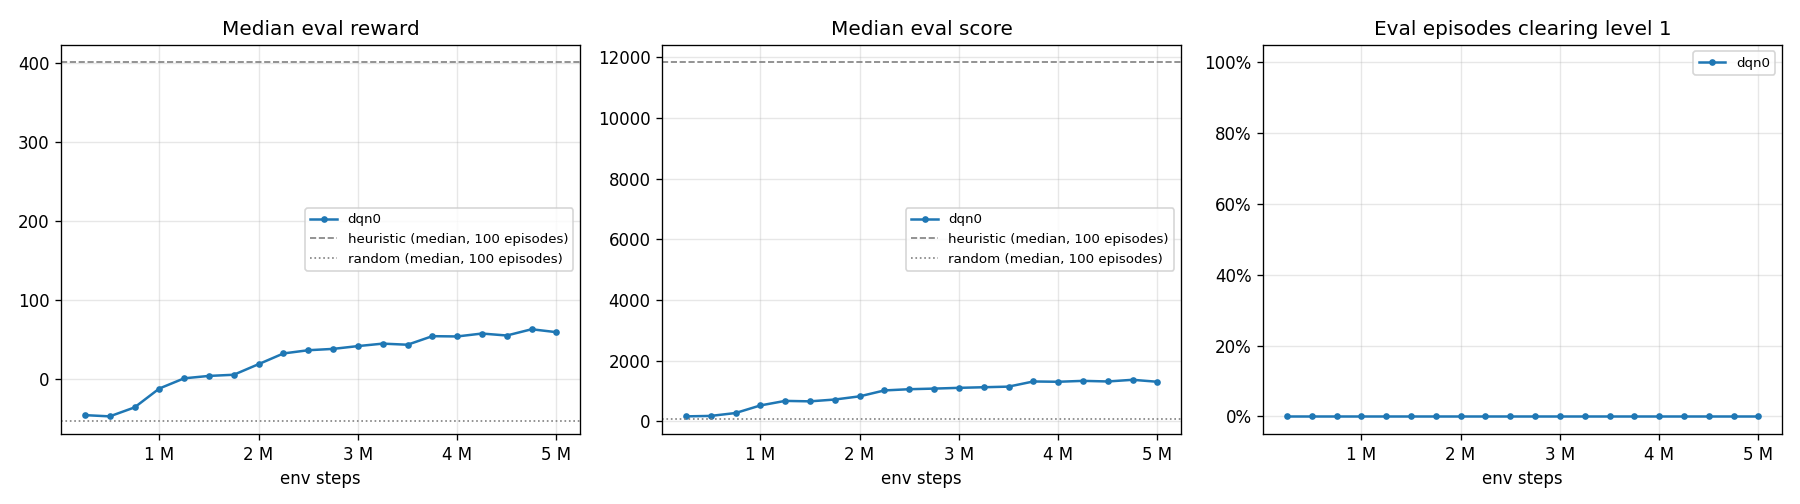
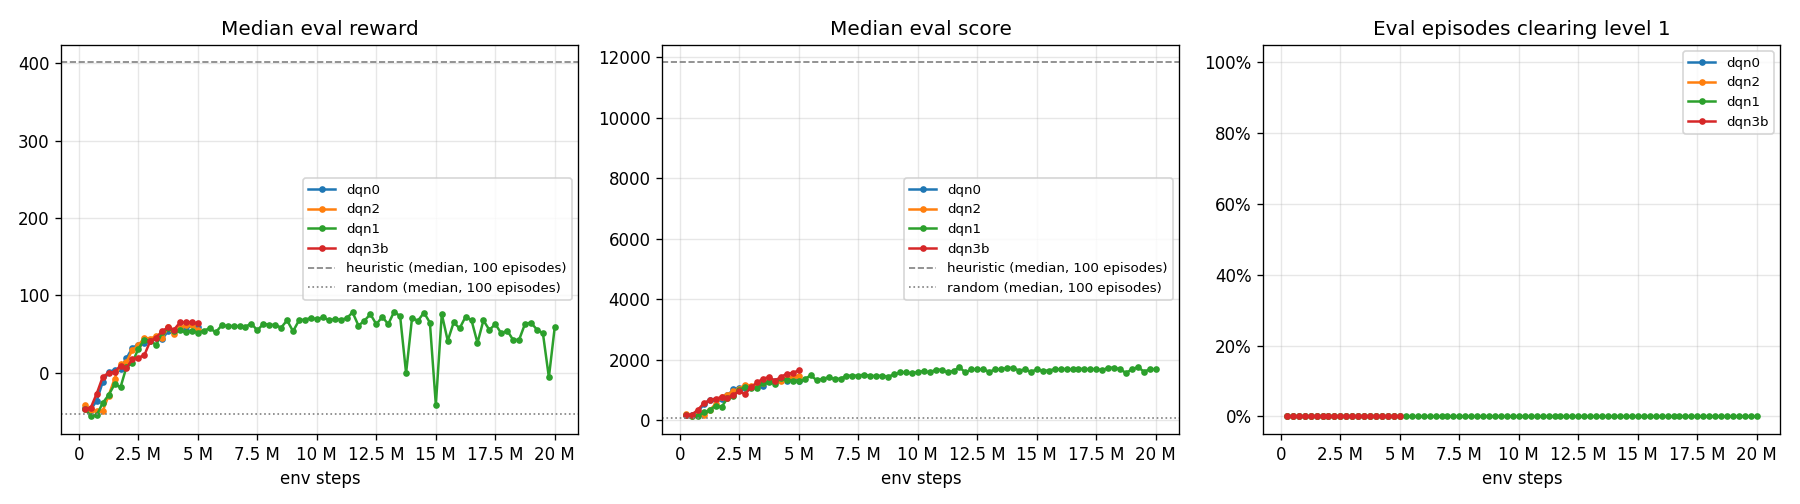
night report: dqn1 (20M) and dqn3b (offset shaping)
Neither clears level 1. dqn1/best.pt (13.25M) has the best median (70.1
reward, 1580 score) but gets stuck until the step limit in 15% of games,
more so later in training; dqn3b's shaping does not reduce the time spent
without eating (59% of the game in 30+ step stretches vs 54% for dqn0).
docs/results.md gets the supervisor's 500k-step evaluations and the final
100-game evaluations of dqn1 and dqn3b; docs/eval.png all runs.

diff --git a/docs/night_report.md b/docs/night_report.md
@@ -1,0 +1,283 @@
+# Night report, 2026-10-06 (01:10-03:20)
+
+Runs: **dqn1** (dqn0's setup, 20M steps, epsilon 1.0 -> 0.05 over 3M; started the
+evening before) and **dqn3b** (shaping Phi = 0.1 * (86 - d), Phi(terminal) = 0,
+4 actions, 5M steps; started 01:20 after dqn3 with the old potential was
+stopped). Both finished, no crashes. Supervisor (`scripts/supervisor.py`)
+watched both from 01:34 and exited at 03:18. Plot of all evals: `docs/eval.png`.
+
+## Summary
+
+- Neither run cleared level 1 in any evaluation game. Best medians:
+  dqn1/best.pt 70.1 reward, 1580 score, 152 food items per game (dqn0: 61.8,
+  1360, 128).
+- **The shaping did not fix standing still.** dqn3b eats the same amount of
+  food as dqn0 (127 vs 128) and spends more of the game without eating:
+  median 212 steps after its last food vs 69; 59% vs 54% of the game in
+  stretches of 30+ steps without food.
+- **dqn1 gets worse at this with more training.** From ~9M steps on, more
+  and more evaluation games run to the 10000-step limit without the game
+  ending: 0/20 at 9M, 6/20 at 13M (train.py's evals), 45-50% of supervisor
+  eval games at 13M, 15M and 19.5M. Its median eval reward on seeds 0..19
+  fell to -1.4 (13M) and -0.4 (19.5M) because the step penalty piles up.
+  Loss stayed flat (0.37-0.40), mean Q kept rising (8.7 at 7M -> 18 at 20M).
+- best.pt is chosen by median eval reward, which ignores stuck games while
+  fewer than half get stuck: dqn1/best.pt (13.25M) gets stuck in 15/100
+  games, so its mean reward (49.1) is below dqn0's (61.9).
+- Speed: both runs dropped below 1.5k steps/s at times (details below). No
+  new runs were started.
+
+## Final evaluations (100 games, seeds 0..99, no shaping)
+
+"After last food": median steps from the last eaten dot/energizer to the
+end of the game. "In 30+ gaps": mean share of the game spent in stretches
+of 30 or more steps without eating (the tail included). "Stuck": games
+that hit the 10000-step limit.
+
+| checkpoint | mean reward | median reward | median score | max score | level 1 cleared | food eaten | after last food | in 30+ gaps | stuck |
+|---|---|---|---|---|---|---|---|---|---|
+| dqn0/best.pt (4.75M, 5 actions, no shaping) | 61.9 | 61.8 | 1360 | 2950 | 0% | 128 | 69 | 54% | 0% |
+| dqn1/best.pt (13.25M of 20M, eps over 3M) | 49.1 | 70.1 | 1580 | 3180 | 0% | 152 | 784 | 73% | 15% |
+| dqn3b/best.pt (4.75M, shaping, 4 actions) | 62.2 | 62.4 | 1490 | 3070 | 0% | 127 | 212 | 59% | 0% |
+
+For scale (20 games, below): the heuristic spends 12% of its game in such
+stretches, 12 steps after its last food.
+
+## What the agents do when they are not eating
+
+On 10 games each of dqn0/best.pt and dqn3b/best.pt (seeds 0..9), in
+stretches of 30+ steps without food:
+
+- About half the steps pacman does not move at all (dqn0: 1679 still /
+  2671 moving; dqn3b: 2699 / 2768). With 4 actions dqn3b stands by walking
+  into a wall.
+- When it moves, it goes back and forth over a few cells (4.8 visits per
+  distinct cell for dqn0, 7.4 for dqn3b).
+- The most visited cells are corners of the maze where the energizers were:
+  (1,1), (1,5), (31,1), (19,21), (21,21).
+- Each game had 37-51 dots left when it reached its last life.
+
+## What did not go as planned
+
+1. **dqn3 (old potential) was stopped** at 1.16M steps, as decided. Its last
+   eval (1M): median reward -9.2, score 505. Files kept in `runs/dqn3/`.
+2. **The supervisor started at 01:34, after both runs had passed some
+   500k points.** train.py keeps only its latest checkpoint, so there was
+   nothing left to evaluate for dqn1 0.5M..7.5M and dqn3b 0.5M..1M
+   (logged as skipped). The training script's own evals (every 250k)
+   cover those steps in the tables below.
+3. **Speed below 1.5k steps/s.** dqn3b: 97 of its 500 log lines (every
+   10k steps) were under 1.5k, the lowest 1,277. dqn1: 65 of 2000, 26 of them while dqn3b
+   was running. The first dip (dqn3b 1,345 at 01:34) came while I ran the
+   test suite and the reference evaluations next to both runs. Later dips
+   line up with the supervisor's evaluations (10-78 s every few minutes,
+   up to 50% stuck games of 10000 steps make them long). The supervisor
+   logged only one of them, because it checks the latest log line every
+   15 s and writes at most one note per 10 minutes. No runs were waiting to
+   start, so nothing was held back.
+4. **No crash happened, so the restart path was not used tonight.** It is
+   covered by `tests/test_supervisor.py` (kill -> one --resume, second
+   kill -> left down). After 03:18 nothing was watched any more.
+5. **dqn1's late checkpoints are worse than its best.pt** in the way that
+   matters here (stuck games); best.pt selection by median reward did not
+   catch it.
+
+## What I did not find out
+
+- **Why the agent stops eating.** My guess, not verified: it hides. Ghosts
+  only chase pacman when they see it along a straight line with no wall in
+  between. A death costs -20, while the ~45 remaining dots are worth +1 each
+  and are often far away. To check this, I would need to:
+  - test whether the favourite corners are out of the ghosts' line of sight
+    more often than other cells;
+  - compare Q(stand) with Q(move towards food) in those states;
+  - see whether a smaller death penalty or a per-life time limit changes it.
+- **Why mean Q keeps rising in dqn1** (to ~18) while it gets stuck more.
+  Possible causes, both unchecked: overestimation that Double DQN does not
+  remove, or bootstrapping at the 10000-step truncation in training.
+- **Whether any of this holds across seeds.** Every run is seed 0. The gaps
+  between dqn0, dqn2 and dqn3b (61-62 median reward) are within what one
+  seed can tell apart.
+- dqn3b's mean Q stayed negative for most of the run (-8 at 0.26M, about
+  -0.7 from 3.9M) although Phi >= 0. I did not look into it.
+- The 30-step threshold for a "long" stretch without food is arbitrary.
+
+### Reference agents (20 games, seeds 0..19, no shaping)
+
+| | median reward | median score | max score | level 1 cleared | median length | food eaten | mean gap | longest gap | steps after last food | in 30+ gaps |
+|---|---|---|---|---|---|---|---|---|---|---|
+| heuristic | 404.4 | 13620 | 51130 | 80% | 1270 | 342 | 3.2 | 53 | 12 | 12% |
+| dqn0/best.pt | 61.2 | 1380 | 2950 | 0% | 778 | 128 | 4.9 | 163 | 65 | 56% |
+| dqn2/best.pt | 56.3 | 1370 | 2350 | 0% | 1024 | 128 | 4.0 | 154 | 378 | 66% |
+
+### dqn1
+
+Training-script evals (every 250k steps, 20 greedy games, seeds 1000000..1000019):
+
+| steps | median reward | median score | max score | level 1 cleared | mean length |
+|---|---|---|---|---|---|
+| 0.25M | -46.4 | 165 | 250 | 0% | 206 |
+| 0.50M | -56.5 | 140 | 180 | 0% | 419 |
+| 0.75M | -54.8 | 130 | 180 | 0% | 441 |
+| 1.00M | -39.2 | 260 | 360 | 0% | 394 |
+| 1.25M | -28.9 | 335 | 450 | 0% | 322 |
+| 1.50M | -15.0 | 480 | 580 | 0% | 310 |
+| 1.75M | -18.9 | 440 | 610 | 0% | 361 |
+| 2.00M | 7.5 | 725 | 1760 | 0% | 543 |
+| 2.25M | 13.2 | 810 | 1110 | 0% | 664 |
+| 2.50M | 31.0 | 1000 | 2010 | 0% | 594 |
+| 2.75M | 42.7 | 1110 | 2350 | 0% | 694 |
+| 3.00M | 41.4 | 1060 | 2280 | 0% | 722 |
+| 3.25M | 35.8 | 1075 | 2140 | 0% | 880 |
+| 3.50M | 52.0 | 1235 | 4250 | 0% | 782 |
+| 3.75M | 57.6 | 1280 | 2200 | 0% | 670 |
+| 4.00M | 54.2 | 1210 | 2290 | 0% | 708 |
+| 4.25M | 55.0 | 1410 | 2550 | 0% | 1032 |
+| 4.50M | 52.1 | 1325 | 2830 | 0% | 1110 |
+| 4.75M | 54.4 | 1310 | 2630 | 0% | 1105 |
+| 5.00M | 52.0 | 1285 | 2450 | 0% | 1401 |
+| 5.25M | 54.1 | 1360 | 2360 | 0% | 1505 |
+| 5.50M | 57.8 | 1490 | 2360 | 0% | 1466 |
+| 5.75M | 52.2 | 1320 | 2700 | 0% | 1420 |
+| 6.00M | 61.2 | 1370 | 2590 | 0% | 1041 |
+| 6.25M | 60.7 | 1420 | 2620 | 0% | 1576 |
+| 6.50M | 60.2 | 1370 | 2500 | 0% | 1499 |
+| 6.75M | 60.2 | 1375 | 2980 | 0% | 1390 |
+| 7.00M | 59.6 | 1475 | 2880 | 0% | 1335 |
+| 7.25M | 63.6 | 1475 | 2370 | 0% | 1397 |
+| 7.50M | 54.7 | 1480 | 2440 | 0% | 1889 |
+| 7.75M | 63.3 | 1510 | 2560 | 0% | 1703 |
+| 8.00M | 62.1 | 1470 | 2780 | 0% | 1766 |
+| 8.25M | 61.8 | 1465 | 2680 | 0% | 1434 |
+| 8.50M | 58.4 | 1475 | 2500 | 0% | 2179 |
+| 8.75M | 67.8 | 1445 | 2550 | 0% | 1114 |
+| 9.00M | 53.6 | 1515 | 2620 | 0% | 2013 |
+| 9.25M | 67.8 | 1580 | 2690 | 0% | 2658 |
+| 9.50M | 68.8 | 1580 | 2670 | 0% | 2362 |
+| 9.75M | 70.7 | 1555 | 2910 | 0% | 1840 |
+| 10.00M | 69.4 | 1595 | 3880 | 0% | 2446 |
+| 10.25M | 71.5 | 1630 | 2980 | 0% | 2166 |
+| 10.50M | 68.3 | 1580 | 2580 | 0% | 1828 |
+| 10.75M | 69.1 | 1670 | 2190 | 0% | 3733 |
+| 11.00M | 68.8 | 1675 | 2480 | 0% | 1731 |
+| 11.25M | 70.2 | 1580 | 2780 | 0% | 2134 |
+| 11.50M | 78.1 | 1635 | 4580 | 0% | 1995 |
+| 11.75M | 60.9 | 1750 | 2180 | 0% | 3089 |
+| 12.00M | 67.4 | 1580 | 3480 | 0% | 2592 |
+| 12.25M | 75.7 | 1680 | 2880 | 0% | 1809 |
+| 12.50M | 62.7 | 1680 | 2190 | 0% | 3670 |
+| 12.75M | 72.2 | 1685 | 4600 | 0% | 2193 |
+| 13.00M | 62.8 | 1605 | 3490 | 0% | 4284 |
+| 13.25M | 79.0 | 1680 | 2950 | 0% | 3142 |
+| 13.50M | 73.0 | 1685 | 2280 | 0% | 3654 |
+| 13.75M | -0.5 | 1730 | 3080 | 0% | 5743 |
+| 14.00M | 70.8 | 1735 | 3080 | 0% | 4321 |
+| 14.25M | 67.3 | 1645 | 2990 | 0% | 3075 |
+| 14.50M | 77.7 | 1680 | 2080 | 0% | 3004 |
+| 14.75M | 64.9 | 1605 | 2190 | 0% | 3081 |
+| 15.00M | -41.5 | 1680 | 3650 | 0% | 6592 |
+| 15.25M | 76.0 | 1640 | 2510 | 0% | 3656 |
+| 15.50M | 41.3 | 1645 | 2810 | 0% | 4378 |
+| 15.75M | 65.1 | 1690 | 2190 | 0% | 3543 |
+| 16.00M | 57.4 | 1685 | 4560 | 0% | 4575 |
+| 16.25M | 72.4 | 1695 | 2180 | 0% | 1846 |
+| 16.50M | 67.7 | 1680 | 3010 | 0% | 3533 |
+| 16.75M | 38.6 | 1705 | 2250 | 0% | 4664 |
+| 17.00M | 67.7 | 1690 | 2240 | 0% | 2569 |
+| 17.25M | 55.3 | 1690 | 2180 | 0% | 5050 |
+| 17.50M | 62.9 | 1690 | 2290 | 0% | 3061 |
+| 17.75M | 50.8 | 1660 | 2250 | 0% | 4001 |
+| 18.00M | 54.4 | 1735 | 2290 | 0% | 4605 |
+| 18.25M | 42.4 | 1740 | 2290 | 0% | 4875 |
+| 18.50M | 42.7 | 1685 | 2290 | 0% | 5504 |
+| 18.75M | 63.4 | 1565 | 2250 | 0% | 4490 |
+| 19.00M | 64.6 | 1690 | 2190 | 0% | 3244 |
+| 19.25M | 55.7 | 1760 | 4550 | 0% | 3459 |
+| 19.50M | 50.9 | 1610 | 4550 | 0% | 4775 |
+| 19.75M | -5.9 | 1685 | 2260 | 0% | 5551 |
+| 20.00M | 59.8 | 1690 | 4590 | 0% | 3607 |
+
+Supervisor evals (every 500k steps, 20 greedy games, seeds 0..19, no shaping); gaps are steps between eaten food, medians over games:
+
+| steps | median reward | median score | max score | level 1 cleared | median length | food eaten | mean gap | longest gap | steps after last food | in 30+ gaps |
+|---|---|---|---|---|---|---|---|---|---|---|
+| 8.00M | 63.8 | 1480 | 2880 | 0% | 1449 | 142 | 5.7 | 270 | 415 | 72% |
+| 8.50M | 63.8 | 1475 | 2430 | 0% | 1338 | 141 | 4.6 | 174 | 476 | 69% |
+| 9.00M | 65.2 | 1535 | 2410 | 0% | 1430 | 147 | 5.9 | 262 | 516 | 73% |
+| 9.50M | 66.7 | 1515 | 2580 | 0% | 1215 | 146 | 5.5 | 189 | 340 | 69% |
+| 10.00M | 66.1 | 1580 | 2580 | 0% | 1778 | 152 | 6.0 | 177 | 506 | 66% |
+| 10.50M | 75.5 | 1580 | 1890 | 0% | 1116 | 152 | 4.6 | 126 | 425 | 60% |
+| 11.00M | 70.4 | 1585 | 2590 | 0% | 1628 | 152 | 4.5 | 188 | 375 | 62% |
+| 11.50M | 78.0 | 1575 | 1890 | 0% | 1230 | 151 | 4.6 | 144 | 264 | 57% |
+| 12.00M | 78.7 | 1580 | 2040 | 0% | 1286 | 152 | 5.1 | 160 | 384 | 57% |
+| 12.50M | 60.7 | 1670 | 2880 | 0% | 2150 | 152 | 4.7 | 146 | 1169 | 80% |
+| 13.00M | -1.4 | 1705 | 3780 | 0% | 5122 | 152 | 4.4 | 140 | 4126 | 81% |
+| 13.50M | 44.3 | 1635 | 2780 | 0% | 2765 | 152 | 4.0 | 132 | 1854 | 79% |
+| 14.00M | 72.9 | 1655 | 1890 | 0% | 1720 | 152 | 4.2 | 132 | 788 | 72% |
+| 14.50M | 65.1 | 1580 | 1880 | 0% | 1842 | 152 | 3.6 | 78 | 1290 | 76% |
+| 15.00M | 56.3 | 1595 | 2490 | 0% | 2134 | 150 | 3.5 | 94 | 1634 | 74% |
+| 15.50M | 62.6 | 1605 | 2200 | 0% | 1888 | 148 | 3.7 | 72 | 1323 | 72% |
+| 16.00M | 55.5 | 1680 | 1910 | 0% | 2726 | 152 | 4.4 | 156 | 1770 | 81% |
+| 16.50M | 47.8 | 1590 | 2190 | 0% | 3084 | 152 | 3.7 | 158 | 1628 | 81% |
+| 17.00M | 58.8 | 1685 | 1890 | 0% | 2208 | 152 | 3.7 | 108 | 1510 | 78% |
+| 17.50M | 65.5 | 1645 | 1900 | 0% | 1898 | 153 | 3.8 | 90 | 1015 | 76% |
+| 18.00M | 54.5 | 1645 | 2150 | 0% | 2401 | 152 | 3.6 | 96 | 1586 | 78% |
+| 18.50M | 62.6 | 1690 | 2280 | 0% | 2222 | 153 | 4.1 | 132 | 1537 | 74% |
+| 19.00M | 46.9 | 1610 | 1890 | 0% | 2848 | 153 | 3.8 | 150 | 1666 | 75% |
+| 19.50M | -0.4 | 1685 | 2250 | 0% | 6792 | 152 | 3.6 | 90 | 5920 | 85% |
+| 20.00M | 45.4 | 1600 | 3210 | 0% | 3131 | 153 | 3.6 | 90 | 1656 | 76% |
+
+Speed: median 2,006 steps/s over the run, min 1,314, last 50 log lines median 2,608.
+
+### dqn3b
+
+Training-script evals (every 250k steps, 20 greedy games, seeds 1000000..1000019):
+
+| steps | median reward | median score | max score | level 1 cleared | mean length |
+|---|---|---|---|---|---|
+| 0.25M | -47.1 | 170 | 210 | 0% | 264 |
+| 0.50M | -45.2 | 190 | 270 | 0% | 332 |
+| 0.75M | -27.1 | 340 | 380 | 0% | 271 |
+| 1.00M | -5.7 | 560 | 740 | 0% | 258 |
+| 1.25M | 0.0 | 665 | 1050 | 0% | 426 |
+| 1.50M | 0.8 | 720 | 1020 | 0% | 467 |
+| 1.75M | 9.3 | 760 | 1310 | 0% | 491 |
+| 2.00M | 5.7 | 740 | 990 | 0% | 510 |
+| 2.25M | 17.9 | 845 | 1050 | 0% | 533 |
+| 2.50M | 19.6 | 955 | 1280 | 0% | 573 |
+| 2.75M | 22.5 | 870 | 1750 | 0% | 410 |
+| 3.00M | 41.1 | 1110 | 1420 | 0% | 597 |
+| 3.25M | 45.5 | 1250 | 2540 | 0% | 660 |
+| 3.50M | 53.9 | 1380 | 2480 | 0% | 824 |
+| 3.75M | 58.7 | 1425 | 2840 | 0% | 840 |
+| 4.00M | 55.8 | 1315 | 1930 | 0% | 723 |
+| 4.25M | 65.0 | 1435 | 2780 | 0% | 680 |
+| 4.50M | 65.2 | 1540 | 2690 | 0% | 877 |
+| 4.75M | 65.5 | 1565 | 2960 | 0% | 935 |
+| 5.00M | 63.7 | 1655 | 2780 | 0% | 1086 |
+
+Supervisor evals (every 500k steps, 20 greedy games, seeds 0..19, no shaping); gaps are steps between eaten food, medians over games:
+
+| steps | median reward | median score | max score | level 1 cleared | median length | food eaten | mean gap | longest gap | steps after last food | in 30+ gaps |
+|---|---|---|---|---|---|---|---|---|---|---|
+| 1.50M | 0.6 | 720 | 760 | 0% | 498 | 64 | 4.1 | 106 | 98 | 66% |
+| 2.00M | 8.0 | 730 | 1380 | 0% | 474 | 72 | 5.9 | 172 | 36 | 55% |
+| 2.50M | 21.4 | 885 | 1280 | 0% | 499 | 86 | 5.3 | 130 | 14 | 56% |
+| 3.00M | 35.7 | 1090 | 1430 | 0% | 514 | 100 | 4.6 | 102 | 50 | 48% |
+| 3.50M | 50.0 | 1210 | 1870 | 0% | 684 | 116 | 4.4 | 144 | 160 | 53% |
+| 4.00M | 51.8 | 1345 | 1940 | 0% | 827 | 118 | 4.7 | 145 | 141 | 57% |
+| 4.50M | 63.5 | 1500 | 2820 | 0% | 778 | 126 | 5.4 | 179 | 48 | 57% |
+| 5.00M | 63.2 | 1605 | 2740 | 0% | 914 | 128 | 5.7 | 294 | 183 | 62% |
+
+Speed: median 1,732 steps/s over the run, min 1,277, last 50 log lines median 1,718.
+
+### Supervisor events
+
+```
+2026-10-06 01:34:12  dqn1: no checkpoint left for 500000..7500000 (15 points), skipped
+2026-10-06 01:34:52  dqn3b: no checkpoint left for 500000..1000000 (2 points), skipped
+2026-10-06 01:34:52  dqn3b: slow, 1345 steps/s (< 1500); no new runs while this lasts
+2026-10-06 02:12:00  dqn3b: finished (5000000 steps)
+2026-10-06 03:17:47  dqn1: finished (20000000 steps)
+2026-10-06 03:18:06  all runs finished or failed; supervisor exits
+```

diff --git a/docs/results.md b/docs/results.md
@@ -11,7 +11,42 @@ Reward is the env's event reward (see docs/observation.md), score the game's.
 | random | 100 | 0..99 | -53.4 | -54.0 | 92 | 80 | 310 | 0% | 0% | 129 | 0% | 1.5 | bae470e |
 | heuristic | 100 | 0..99 | 465.5 | 401.2 | 16999 | 11825 | 221375 | 82% | 21% | 1244 | 0% | 17.6 | bae470e |
 | dqn dqn0/best.pt | 100 | 0..99 | 61.9 | 61.8 | 1423 | 1360 | 2950 | 0% | 0% | 848 | 0% | 30.4 | 5d22ce4 |
+| dqn dqn1/best.pt | 100 | 0..99 | 49.1 | 70.1 | 1688 | 1580 | 3180 | 0% | 0% | 2924 | 15% | 95.2 | af91590 |
+| dqn dqn1@08.00M | 20 | 0..19 | 58.7 | 63.8 | 1606 | 1480 | 2880 | 0% | 0% | 1634 | 0% | 35.1 | cbc1d8a |
+| dqn dqn1@08.50M | 20 | 0..19 | 59.2 | 63.8 | 1552 | 1475 | 2430 | 0% | 0% | 1584 | 0% | 32.1 | af91590 |
+| dqn dqn1@09.00M | 20 | 0..19 | 55.5 | 65.2 | 1620 | 1535 | 2410 | 0% | 0% | 1991 | 0% | 39.5 | af91590 |
+| dqn dqn1@09.50M | 20 | 0..19 | 52.1 | 66.7 | 1638 | 1515 | 2580 | 0% | 0% | 2477 | 10% | 49.9 | af91590 |
+| dqn dqn1@10.00M | 20 | 0..19 | 63.5 | 66.1 | 1632 | 1580 | 2580 | 0% | 0% | 1773 | 0% | 36.0 | af91590 |
+| dqn dqn1@10.50M | 20 | 0..19 | 61.7 | 75.5 | 1592 | 1580 | 1890 | 0% | 0% | 2092 | 10% | 42.2 | af91590 |
+| dqn dqn1@11.00M | 20 | 0..19 | 69.2 | 70.4 | 1666 | 1585 | 2590 | 0% | 0% | 1547 | 0% | 30.7 | af91590 |
+| dqn dqn1@11.50M | 20 | 0..19 | 62.4 | 78.0 | 1600 | 1575 | 1890 | 0% | 0% | 2109 | 10% | 42.7 | af91590 |
+| dqn dqn1@12.00M | 20 | 0..19 | 73.1 | 78.7 | 1624 | 1580 | 2040 | 0% | 0% | 1391 | 0% | 24.4 | af91590 |
+| dqn dqn1@12.50M | 20 | 0..19 | 31.7 | 60.7 | 1732 | 1670 | 2880 | 0% | 0% | 4010 | 20% | 53.8 | af91590 |
+| dqn dqn1@13.00M | 20 | 0..19 | 0.4 | -1.4 | 1874 | 1705 | 3780 | 0% | 0% | 5760 | 45% | 73.4 | af91590 |
+| dqn dqn1@13.50M | 20 | 0..19 | 28.9 | 44.3 | 1716 | 1635 | 2780 | 0% | 0% | 4409 | 30% | 57.5 | af91590 |
+| dqn dqn1@14.00M | 20 | 0..19 | 45.6 | 72.9 | 1654 | 1655 | 1890 | 0% | 0% | 3363 | 20% | 43.9 | af91590 |
+| dqn dqn1@14.50M | 20 | 0..19 | 43.6 | 65.1 | 1652 | 1580 | 1880 | 0% | 0% | 3332 | 20% | 42.3 | af91590 |
+| dqn dqn1@15.00M | 20 | 0..19 | 14.8 | 56.3 | 1710 | 1595 | 2490 | 0% | 0% | 5120 | 45% | 65.5 | af91590 |
+| dqn dqn1@15.50M | 20 | 0..19 | 35.4 | 62.6 | 1651 | 1605 | 2200 | 0% | 0% | 3725 | 20% | 47.6 | af91590 |
+| dqn dqn1@16.00M | 20 | 0..19 | 28.1 | 55.5 | 1668 | 1680 | 1910 | 0% | 0% | 4102 | 20% | 53.3 | af91590 |
+| dqn dqn1@16.50M | 20 | 0..19 | 24.3 | 47.8 | 1700 | 1590 | 2190 | 0% | 0% | 4764 | 30% | 60.1 | af91590 |
+| dqn dqn1@17.00M | 20 | 0..19 | 44.4 | 58.8 | 1685 | 1685 | 1890 | 0% | 0% | 3444 | 15% | 44.2 | af91590 |
+| dqn dqn1@17.50M | 20 | 0..19 | 57.9 | 65.5 | 1672 | 1645 | 1900 | 0% | 0% | 2389 | 5% | 31.3 | af91590 |
+| dqn dqn1@18.00M | 20 | 0..19 | 23.3 | 54.5 | 1690 | 1645 | 2150 | 0% | 0% | 4514 | 30% | 57.4 | af91590 |
+| dqn dqn1@18.50M | 20 | 0..19 | 34.8 | 62.6 | 1725 | 1690 | 2280 | 0% | 0% | 4486 | 35% | 57.5 | af91590 |
+| dqn dqn1@19.00M | 20 | 0..19 | 40.3 | 46.9 | 1652 | 1610 | 1890 | 0% | 0% | 3411 | 10% | 44.0 | af91590 |
+| dqn dqn1@19.50M | 20 | 0..19 | 6.9 | -0.4 | 1716 | 1685 | 2250 | 0% | 0% | 6035 | 50% | 77.8 | af91590 |
+| dqn dqn1@20.00M | 20 | 0..19 | 21.0 | 45.4 | 1755 | 1600 | 3210 | 0% | 0% | 4551 | 25% | 29.3 | af91590 |
 | dqn dqn2/best.pt | 100 | 0..99 | 56.5 | 59.2 | 1483 | 1420 | 2670 | 0% | 0% | 1088 | 0% | 72.9 | 7f96361 |
+| dqn dqn3b/best.pt | 100 | 0..99 | 62.2 | 62.4 | 1610 | 1490 | 3070 | 0% | 0% | 996 | 0% | 65.9 | af91590 |
+| dqn dqn3b@01.50M | 20 | 0..19 | -0.1 | 0.6 | 691 | 720 | 760 | 0% | 0% | 510 | 0% | 10.5 | af91590 |
+| dqn dqn3b@02.00M | 20 | 0..19 | 6.9 | 8.0 | 768 | 730 | 1380 | 0% | 0% | 519 | 0% | 11.0 | af91590 |
+| dqn dqn3b@02.50M | 20 | 0..19 | 22.4 | 21.4 | 936 | 885 | 1280 | 0% | 0% | 510 | 0% | 10.4 | af91590 |
+| dqn dqn3b@03.00M | 20 | 0..19 | 37.9 | 35.7 | 1102 | 1090 | 1430 | 0% | 0% | 590 | 0% | 12.1 | af91590 |
+| dqn dqn3b@03.50M | 20 | 0..19 | 50.4 | 50.0 | 1264 | 1210 | 1870 | 0% | 0% | 708 | 0% | 14.5 | af91590 |
+| dqn dqn3b@04.00M | 20 | 0..19 | 52.1 | 51.8 | 1366 | 1345 | 1940 | 0% | 0% | 874 | 0% | 17.7 | af91590 |
+| dqn dqn3b@04.50M | 20 | 0..19 | 59.8 | 63.5 | 1572 | 1500 | 2820 | 0% | 0% | 1006 | 0% | 20.3 | af91590 |
+| dqn dqn3b@05.00M | 20 | 0..19 | 61.3 | 63.2 | 1688 | 1605 | 2740 | 0% | 0% | 1061 | 0% | 14.2 | af91590 |
 
 ## Notes
 
